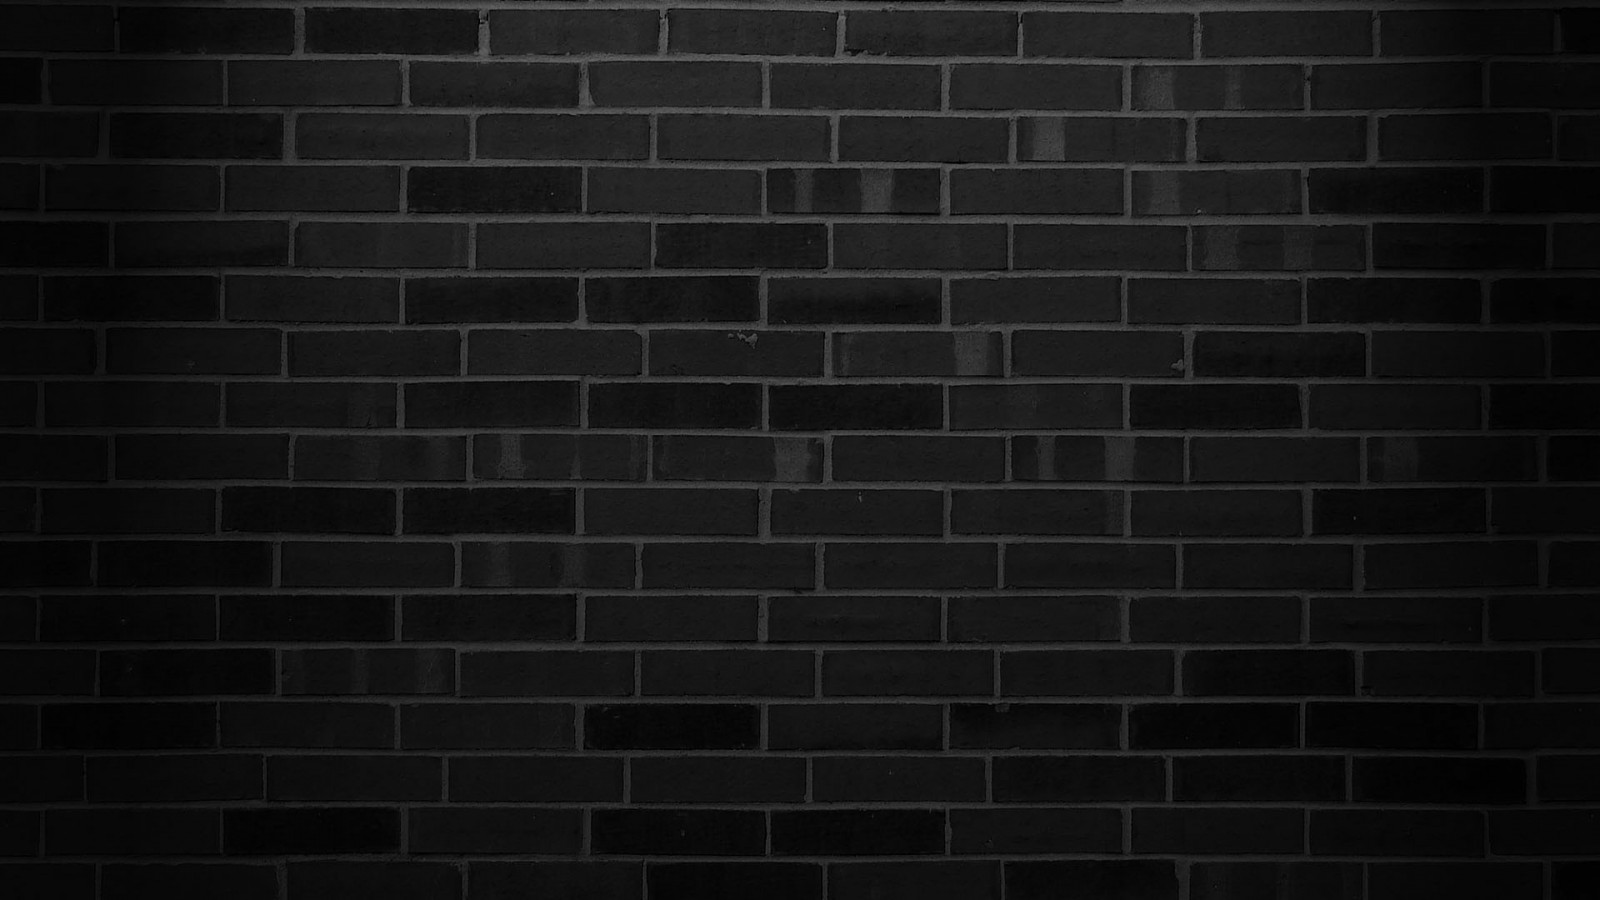
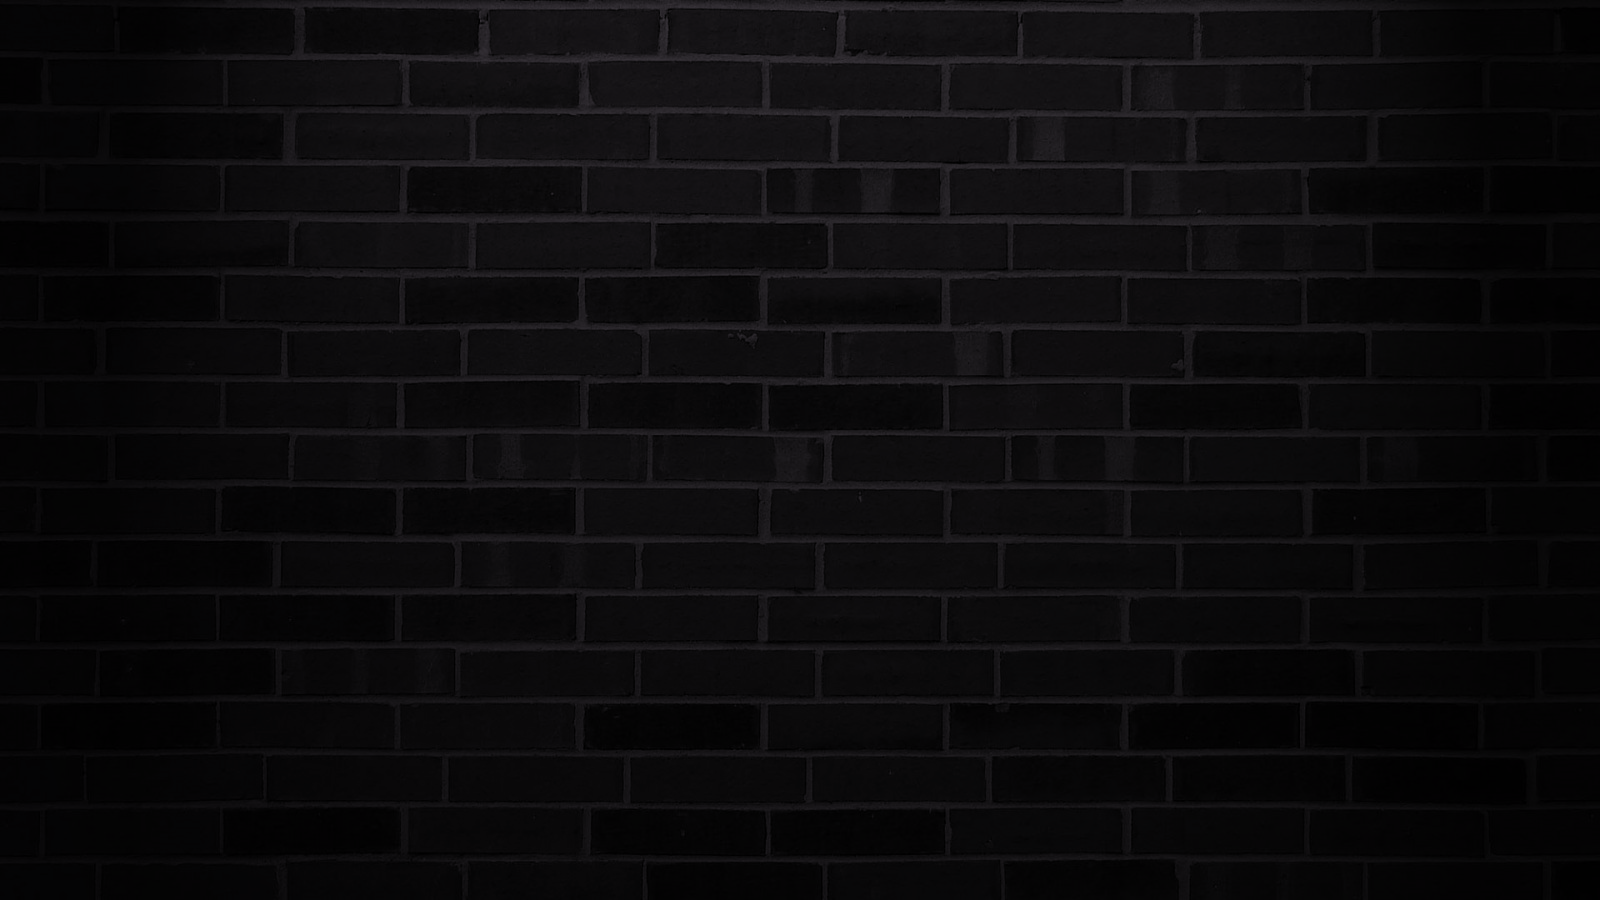
MURE

diff --git a/Mur/main_page.html b/Mur/main_page.html
@@ -22,45 +22,9 @@
             <h6>Ajouter un post ...</h5>
                 <textarea class="w-100 h-50">
                 </textarea>
-            <button type="button" class="btn btn-primary float-end p-0 mt-0">Envoyer</button>
+            <button type="button" class="btn btn-primary float-end p-0 mt-0" id="postsubmit">Envoyer</button>
         </div>
-        <div class="container bg-white w-50 border border-dark border-1 maincontainer mt-5">
-            <div class="container mt-4 border-bottom border-dark pb-4">
-                <h5>Nom prenom</h4>
-                    <div class="container-fluid bg-primary h-25">
-                        <p>Hey</p>
-                        <p>How it's going</p>
-                        <p>Lorem ipsum dolor sit, amet consectetur adipisicing elit. Omnis esse adipisci et voluptas quasi commodi dicta ipsam, 
-                            tempore magnam aliquid accusantium dolorum, ut illo mollitia a error explicabo fuga doloribus!</p>
-                    </div>
-            </div>
-            <div class="container mt-4 border-bottom border-dark pb-4">
-                <h5>Nom prenom</h4>
-                    <div class="container-fluid bg-primary h-25">
-                        <p>Hey</p>
-                        <p>How it's going</p>
-                        <p>Lorem ipsum dolor sit, amet consectetur adipisicing elit. Omnis esse adipisci et voluptas quasi commodi dicta ipsam, 
-                            tempore magnam aliquid accusantium dolorum, ut illo mollitia a error explicabo fuga doloribus!</p>
-                    </div>
-            </div>
-            <div class="container mt-4 border-bottom border-dark pb-4">
-                <h5>Nom prenom</h4>
-                    <div class="container-fluid bg-primary h-25">
-                        <p>Hey</p>
-                        <p>How it's going</p>
-                        <p>Lorem ipsum dolor sit, amet consectetur adipisicing elit. Omnis esse adipisci et voluptas quasi commodi dicta ipsam, 
-                            tempore magnam aliquid accusantium dolorum, ut illo mollitia a error explicabo fuga doloribus!</p>
-                    </div>
-            </div>
-            <div class="container mt-4 border-bottom border-dark pb-4">
-                <h5>Nom prenom</h4>
-                    <div class="container-fluid bg-primary h-25">
-                        <p>Hey</p>
-                        <p>How it's going</p>
-                        <p>Lorem ipsum dolor sit, amet consectetur adipisicing elit. Omnis esse adipisci et voluptas quasi commodi dicta ipsam, 
-                            tempore magnam aliquid accusantium dolorum, ut illo mollitia a error explicabo fuga doloribus!</p>
-                    </div>
-            </div>
+        <div class="container bg-white w-50 border border-dark border-1 maincontainer mt-5 walldiv">
         </div>
         <!-- Script JS -->
         <script src="style/main_page/js.js"></script>

diff --git a/Mur/style/main_page/js.js b/Mur/style/main_page/js.js
@@ -1,0 +1,75 @@
+$(document).ready(() => {
+    var user = JSON.parse(sessionStorage.getItem("user"))
+
+    var btndisconnect = $("#btndisconnect")
+
+    check_connection()
+
+    btndisconnect.click(() => {
+        user.is_connected = false
+        sessionStorage.setItem("user", JSON.stringify(user))
+        location.reload()
+    })
+
+    var darkmode = false
+    var toggledarkmode = $("#toggledark")
+    toggledarkmode.click(() => {
+        darkmode = true
+        $('body').fadeOut('fast')
+        $('body').fadeIn('fast')
+        setTimeout(() => {
+            $("body").toggleClass("bodydark")
+            $('header').toggleClass("dark")
+            $('textarea').toggleClass('dark')
+            $('div').toggleClass('dark')
+        }, 200)
+    })
+
+    var postsubmit = $("#postsubmit")
+    var text = $("textarea")
+
+    text.focus(() => {
+        text.keydown((event) => {
+            if (event.keyCode == 13) {
+                text.val(text.val() + `<br>`)
+            }
+        })
+    })
+    text.focusout(() => {
+        text.unbind("focus")
+    })
+    postsubmit.click(() => {
+        console.log(text);
+        if (darkmode) {
+            $(`.walldiv`).append(`
+        <div class="container mt-4 border-bottom border-dark pb-4 dark">
+            <h5>${user.first_name} ${user.last_name}</h4>
+            <div class="container-fluid border border-dark h-25 dark">
+                <p>${text.val()}</p>
+            </div>
+        </div>
+        `)
+        } else {
+            $(`.walldiv`).append(`
+        <div class="container mt-4 border-bottom border-dark pb-4">
+            <h5>${user.first_name} ${user.last_name}</h4>
+            <div class="container-fluid border border-dark h-25">
+                <p>${text.val()}</p>
+            </div>
+        </div>
+        `)
+        }
+        console.log($(`.walldiv`));
+        text.val("")
+    })
+
+    //functions
+
+    function check_connection() {
+        //if the user is not connected, redirect to login page
+        if (!user.is_connected){
+            window.location.href = "index.html"
+        }
+    }
+
+})

diff --git a/Mur/index.html b/Mur/index.html
@@ -52,15 +52,15 @@
                 </div>
                 <div class="my-2">
                     <p class="mx-5 my-0">Nom</p>
-                    <input type="password" class="w-75 mx-5" data-id="nom">
+                    <input type="text" class="w-75 mx-5" data-id="nom">
                 </div>
                 <div class="my-2">
                     <p class="mx-5 my-0">Prénom</p>
-                    <input type="password" class="w-75 mx-5" data-id="prenom">
+                    <input type="text" class="w-75 mx-5" data-id="prenom">
                 </div>
                 <div class="my-2">
                     <p class="mx-5 my-0">Âge</p>
-                    <input type="password" class="w-75 mx-5" data-id="age">
+                    <input type="number" class="w-75 mx-5" data-id="age">
                 </div>
                 <div class="d-grid gap-2 col-3 mx-auto">
                     <button type="submit" value="INSCRIPTION" class="btn btn-secondary mt-3" id="btninscription">INSCRIPTION</button>

diff --git a/Mur/style/main_page/style.css b/Mur/style/main_page/style.css
@@ -7,12 +7,22 @@ body {
     background: url("../../Data/background/wall_background.png");
     background-size: cover;
     background-attachment: fixed;
-    background-repeat: no-repeat;
+}
+
+.bodydark {
+    background: url("../../Data/background/wall_background_darkmode.png");
+    background-size: cover;
+    background-attachment: fixed;
 }
 
 header {
     margin-top: -10px;
     height: 50px;
+}
+
+.dark {
+    background-color: rgb(14, 14, 14) !important;
+    color: blanchedalmond !important;
 }
 
 #btndisconnect, #toggledark {

diff --git a/Mur/style/login/js.js b/Mur/style/login/js.js
@@ -57,6 +57,8 @@ $(document).ready(() => {
             }
             user_list.push(new_user)
             localStorage.setItem("user_list",JSON.stringify(user_list))
+            alert("Félicitations! Vous êtes désormais inscrit.")
+            location.reload()
         }
     })
 
@@ -75,7 +77,6 @@ $(document).ready(() => {
             } else {
                 alert("Identifiants/Mot de passe incorrects.")
             }
-            console.log(user_list);
         }
     })
 
